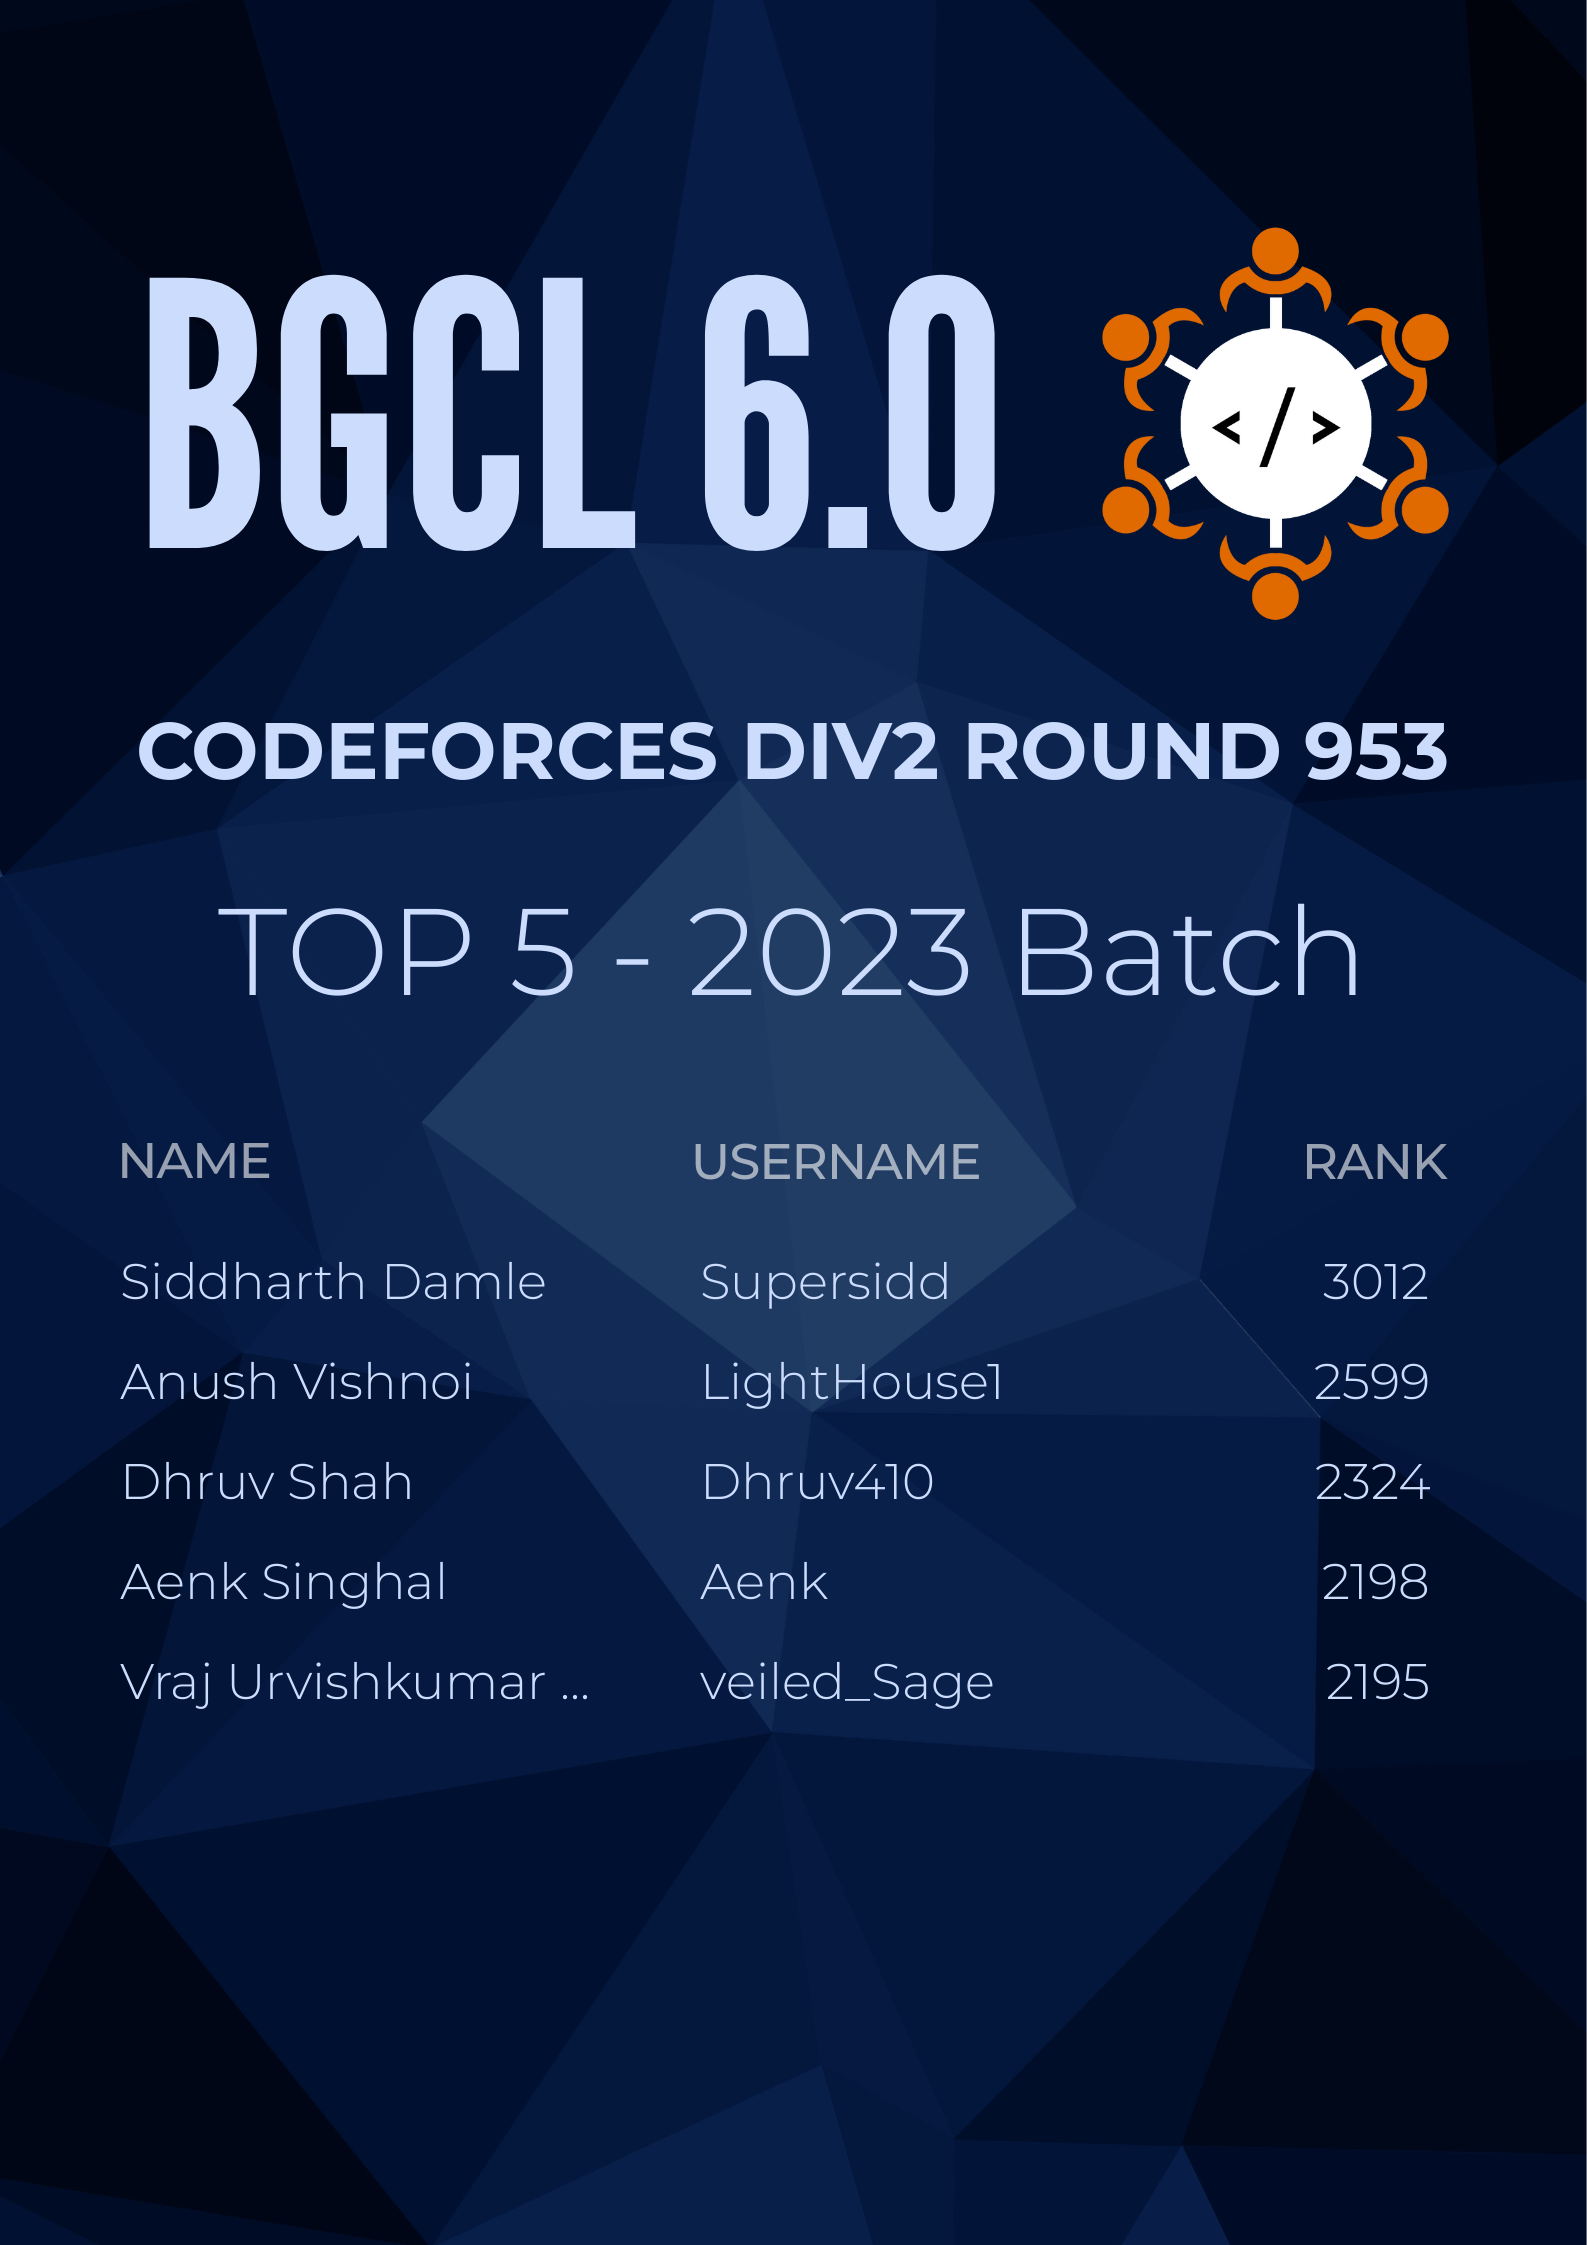
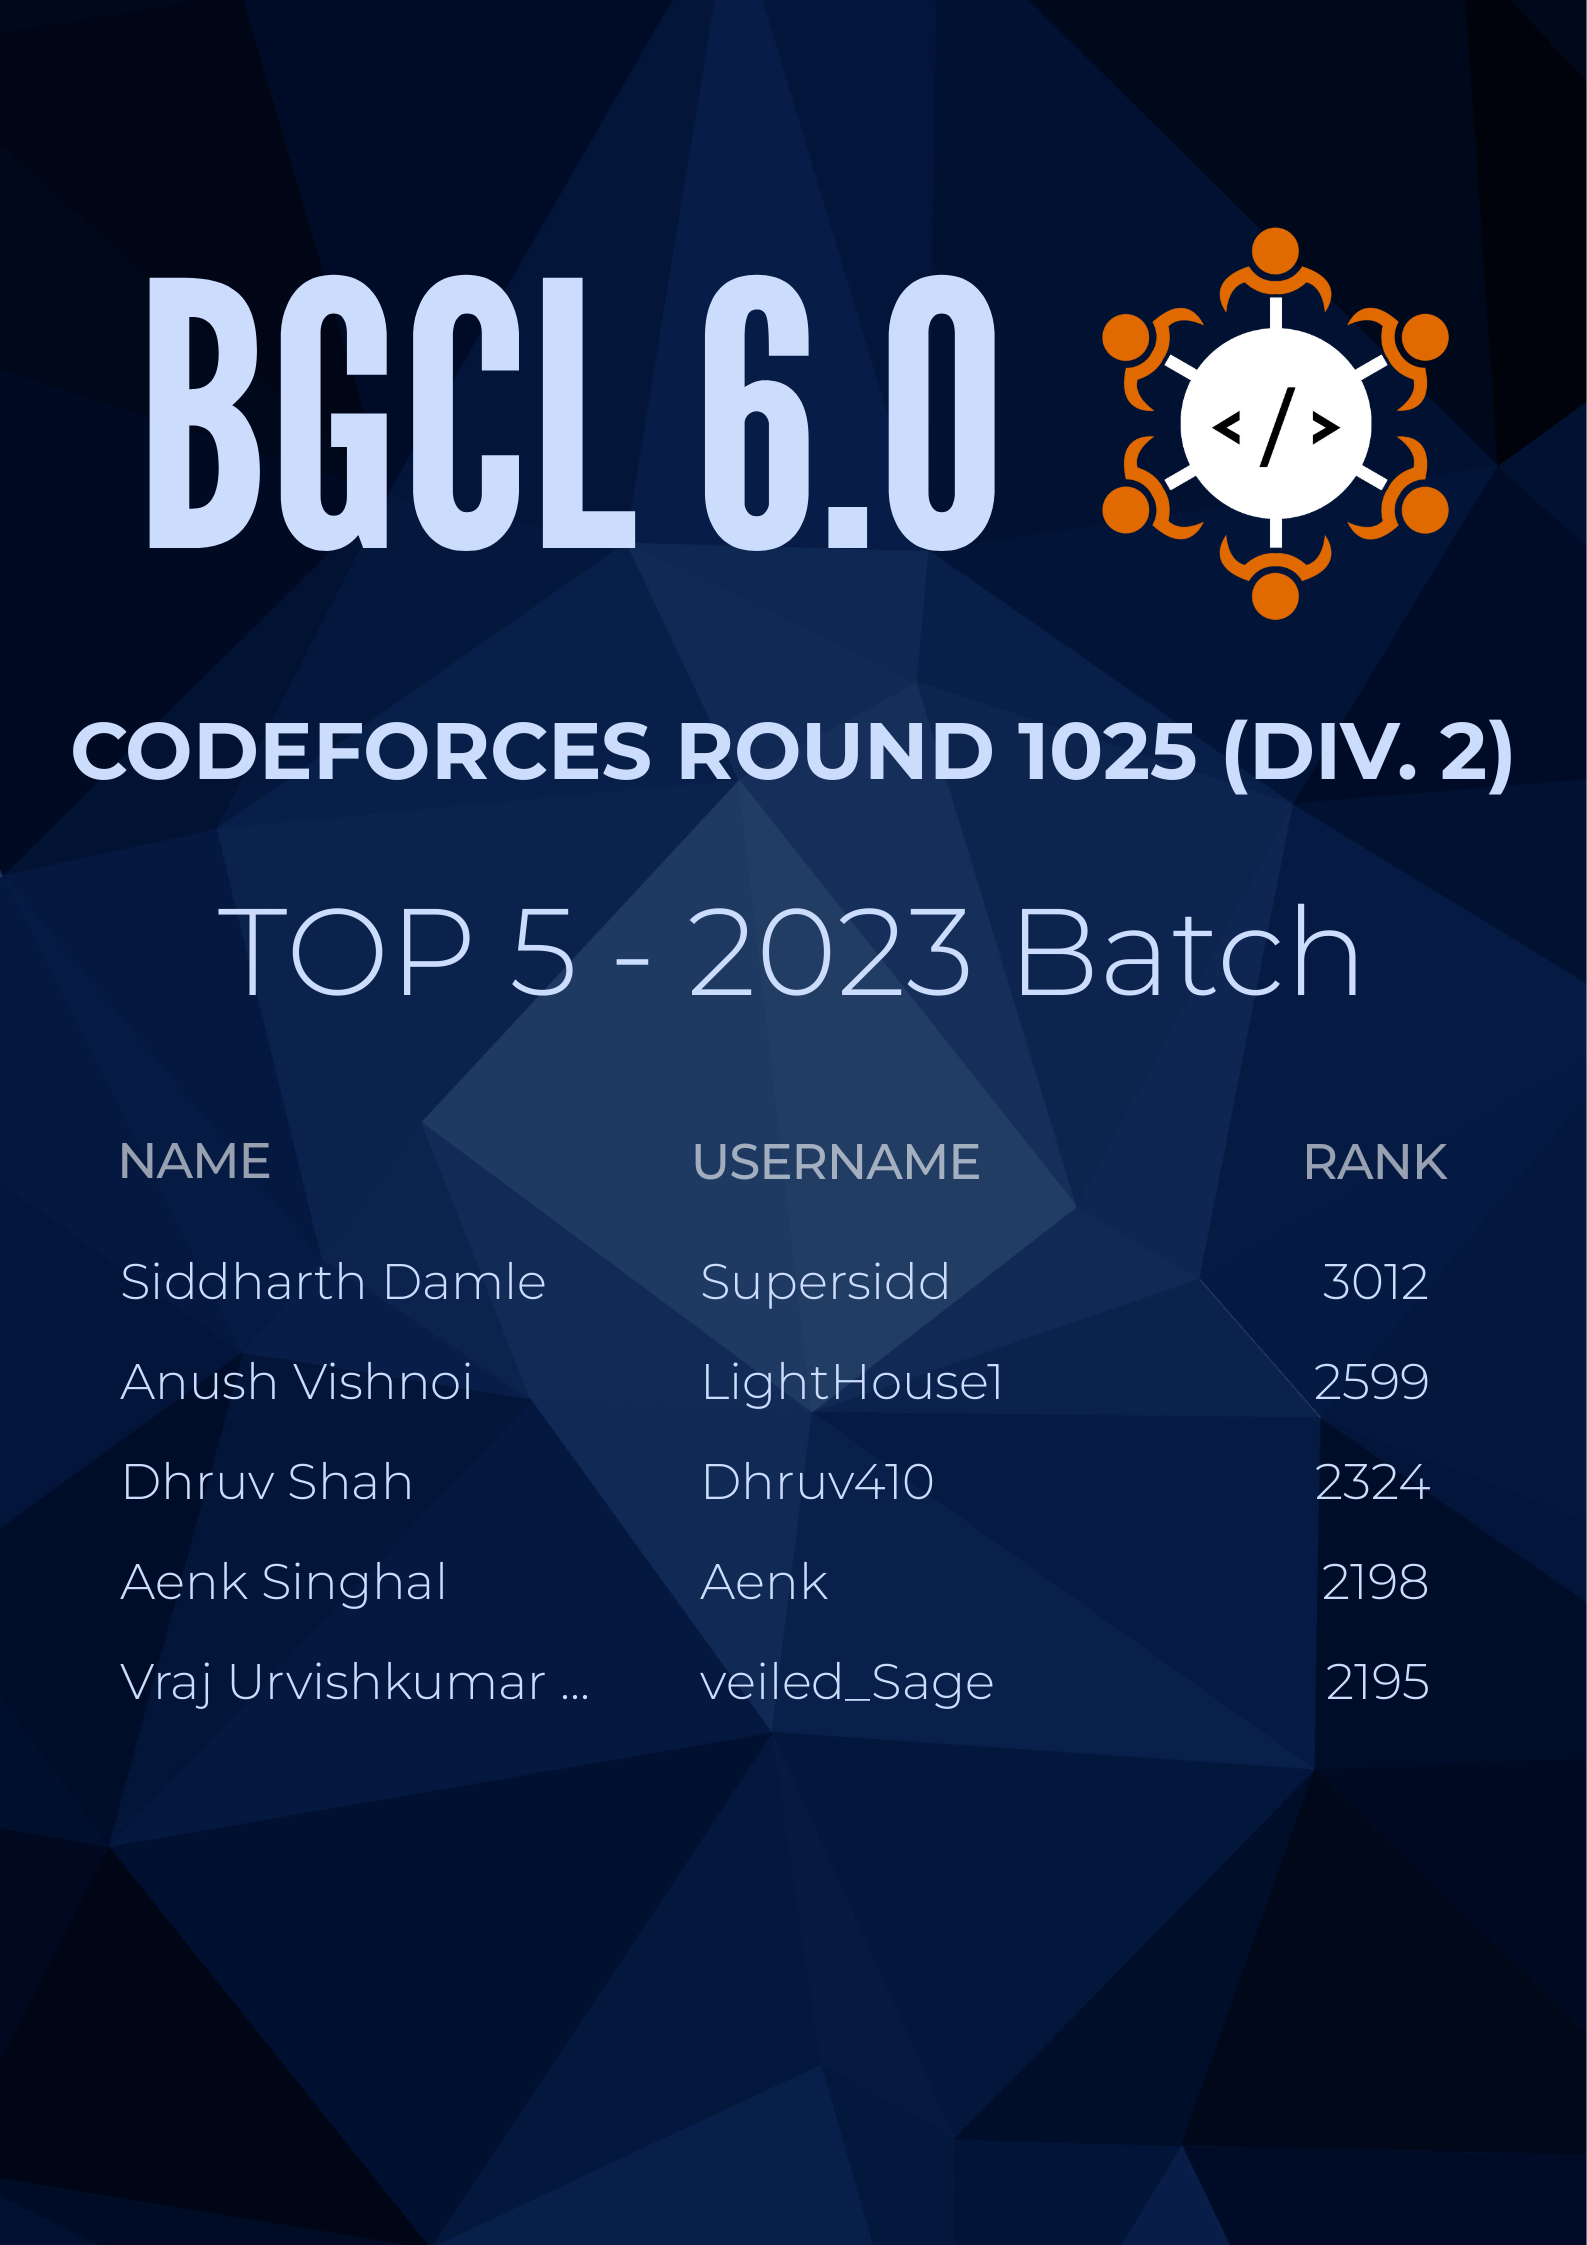
done

Changed region(s): [[0.1853, 0.3118, 0.9572, 0.3742], [0.0309, 0.3118, 0.1544, 0.343]]

diff --git a/main.py b/main.py
@@ -28,6 +28,8 @@ url = f"https://codeforces.com/api/contest.standings?contestId={contestId}&showU
 req = requests.get(url)
 resp = req.json()
 
+contestName = resp["result"]["contest"]["name"] if resp["status"] == "OK" else "Unknown Contest"
+
 # Map cfid to name for quick lookup
 cfid_to_name = {cfid: name for name, cfid in filtered_entries}
 
@@ -78,7 +80,7 @@ line_font = ImageFont.truetype(font_path, 50)
 # To make text bold, use a bold font variant
 bold_font_path = "./fonts/Montserrat-Bold.ttf"
 title_bold_font = ImageFont.truetype(bold_font_path, 80)
-draw.text((width//2, 750), "CODEFORCES DIV2 ROUND 953", font=title_bold_font, fill=textColour[imageSelected], anchor="mm")
+draw.text((width//2, 750), contestName.upper(), font=title_bold_font, fill=textColour[imageSelected], anchor="mm")
 
 draw.text((width//2, 950), "TOP 5 - 2023 Batch", font = title_font, fill = textColour[imageSelected], anchor="mm")
 
